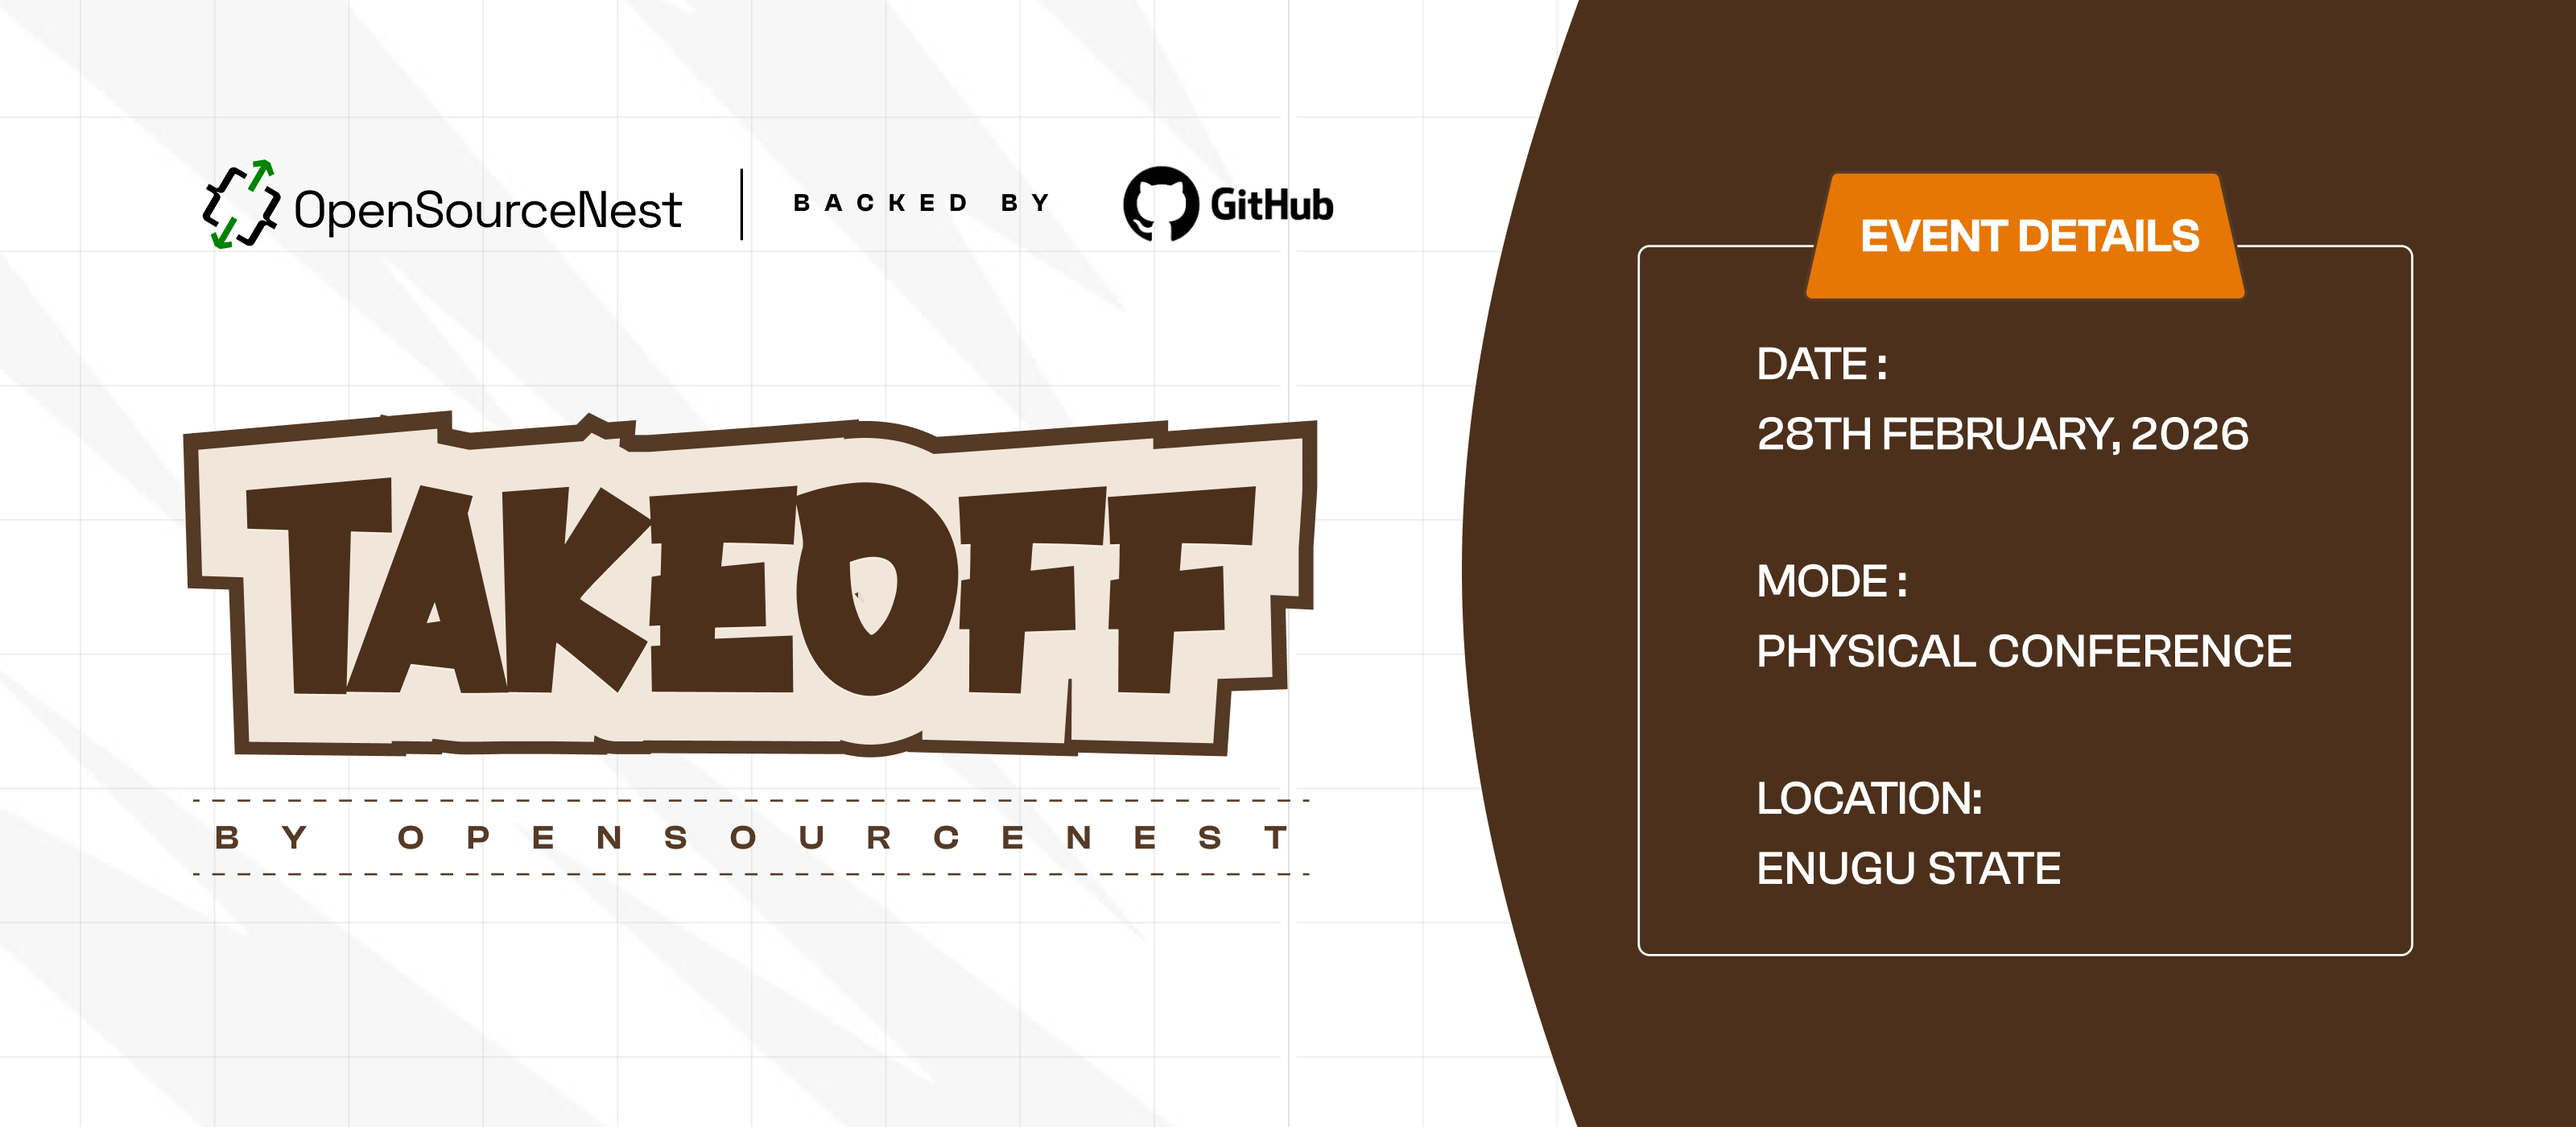
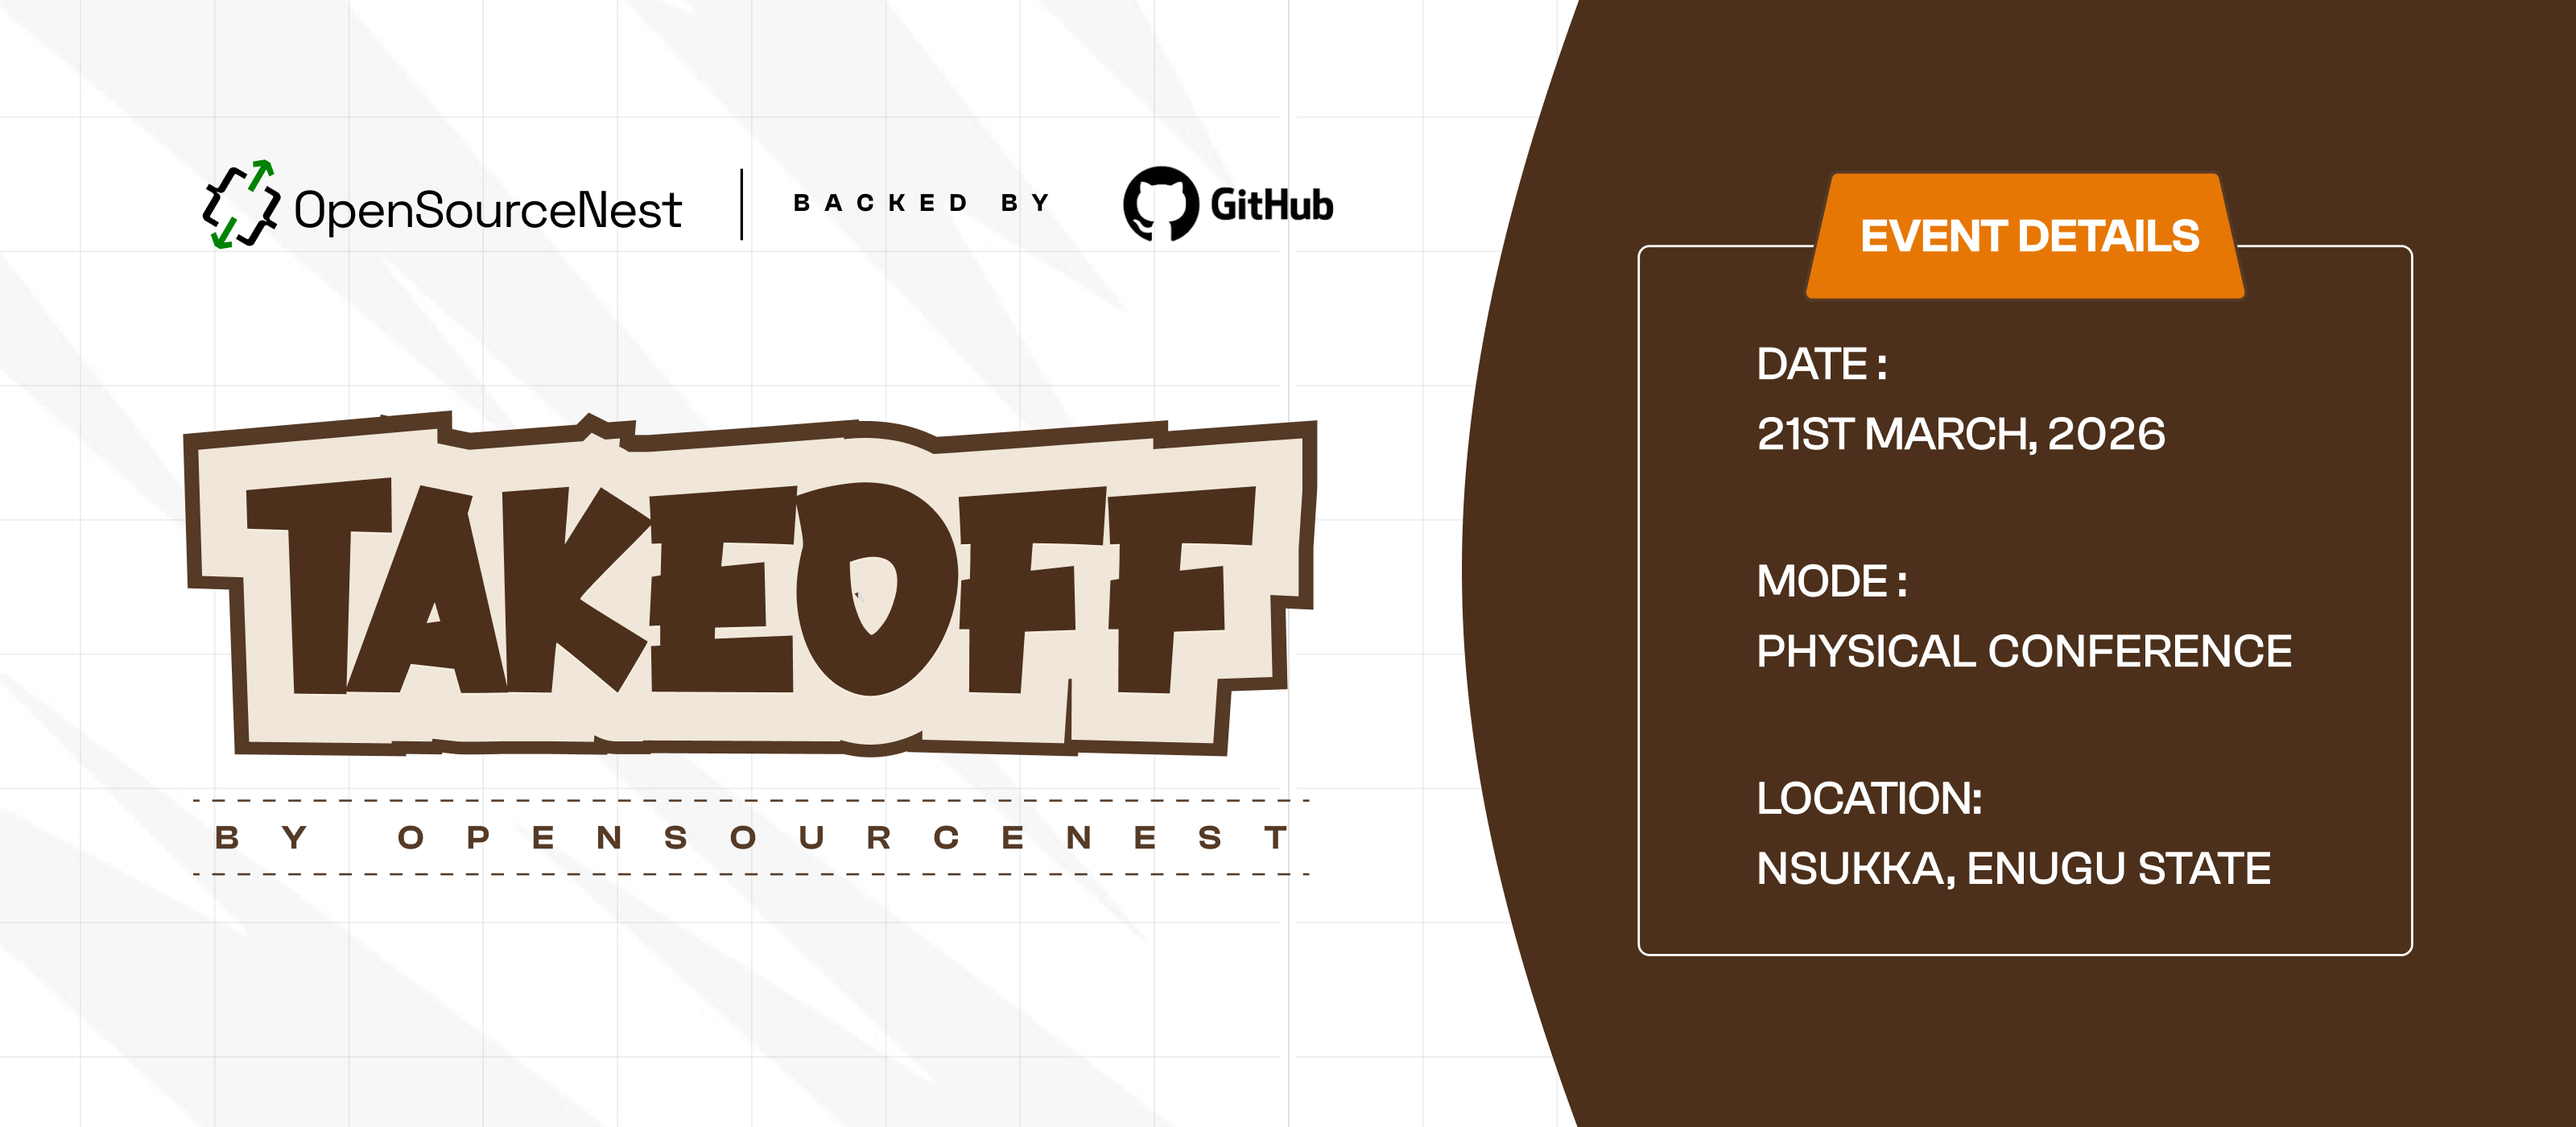
fix: update takeoff date and other campaign detail

Changed region(s): [[0.6875, 0.7371, 0.875, 0.7986], [0.6875, 0.3686, 0.875, 0.3993]]

diff --git a/src/data/campaignTimeline.data.ts b/src/data/campaignTimeline.data.ts
@@ -83,7 +83,8 @@ export const campaignTimelineData: ICampaignTimelineData[] = [
         title: "OSS Code Contribution Workshop",
         description:
           "Focus on contributing through code with tracks of Software Development, Cloud, and AI/ML.",
-        featuring: "Featuring: Chukwuebuka Ezeokeke, Amber Adamson, and others",
+        featuring:
+          "Featuring: Chukwuebuka Ezeokeke, Amber Adamson, and Ayo Kayode",
       },
       {
         date: "5th December, 2025",
@@ -95,10 +96,10 @@ export const campaignTimelineData: ICampaignTimelineData[] = [
         date: "19th December, 2025",
         title: "How to Contribute as Designer Workshop",
         description: "Focus on contributing through design",
-        featuring: "",
+        featuring: "Featuring: Onyeabor Darlington, and Eriol Fox",
       },
       {
-        date: "28th February, 2026",
+        date: "21st March, 2026",
         title: "Takeoff by OSN",
         description:
           "Wrap-up event to reinforce open source involvement, inspire open source growth & showcase impact",

diff --git a/src/data/project.data.ts b/src/data/project.data.ts
@@ -9,7 +9,7 @@ const Projects: Record<string, ProjectCardProps> = {
     type: "Event",
     avatar: "",
     author: { displayText: "Francis Onukwu", seoText: "Francis Onukwu" },
-    date: { displayText: "February 7th, 2026", seoDate: "2026-02-07" },
+    date: { displayText: "March 21st, 2026", seoDate: "2026-03-21" },
     url: "/projects/takeoff-2026",
     blank: true,
   },
